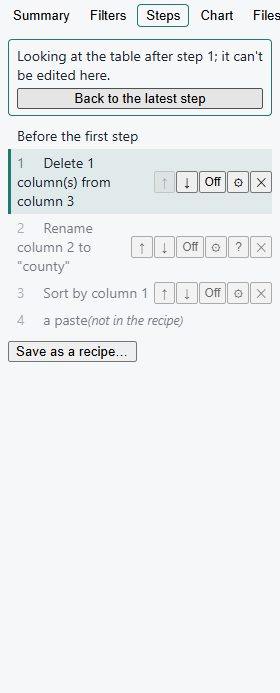
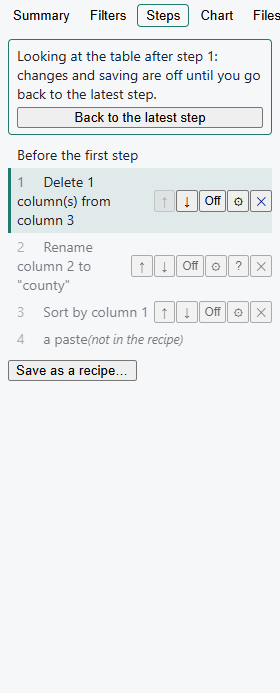
Batch 4 review fixes: peek locks changes and saving, all-or-nothing step changes, ask before replacing results, split name clashes
- Looking back at a step: the backend refuses every change, save and
  autosave until the panel goes back to the latest; the window greys out
  its commands. Going back to the latest keeps changes made by hand.
- Changing a step: if a step fails or the run is cancelled, the table goes
  back and the steps run again as they were (nothing changed).
- Run recipe on files: asks before replacing results of the same name, or
  adds (2) to the new names.
- natendo-cli split --by: names that clean to the same file get (2), (3);
  64 KB buffers per part.
- Right-click: recipe steps and recipes on the tab menu; a menu on each step.
- Answers are not remembered for private files; README says where they are.
- UI tests for the recipe and batch helpers; browser checks for all of it.

Changed region(s): [[0.0286, 0.0606, 0.9714, 0.5455], [0.5429, 0.2424, 0.9714, 0.303]]

diff --git a/crates/cli/src/tools.rs b/crates/cli/src/tools.rs
@@ -828,7 +828,8 @@ mod tests {
         let long = "x".repeat(90);
         std::fs::write(
             &a,
-            format!("k,n
+            format!(
+                "k,n
 a/b,1
 a_b,2
 a/b,3
@@ -836,7 +837,8 @@ a/b,3
 {long}2,5
 end.,6
 end,7
-"),
+"
+            ),
         )
         .unwrap();
         let out = d.join("parts");
@@ -852,7 +854,13 @@ end,7
         assert!(names.contains(&"p a_b (2).csv".to_string()));
         let rows: usize = names
             .iter()
-            .map(|n| std::fs::read_to_string(out.join(n)).unwrap().lines().count() - 1)
+            .map(|n| {
+                std::fs::read_to_string(out.join(n))
+                    .unwrap()
+                    .lines()
+                    .count()
+                    - 1
+            })
             .sum();
         assert_eq!(rows, 7, "every row is in a file");
         let first = std::fs::read_to_string(out.join("p a_b.csv")).unwrap();

diff --git a/src-tauri/src/batch.rs b/src-tauri/src/batch.rs
@@ -123,7 +123,7 @@ impl Batch {
                 }
                 _ => {
                     return Err(bad(
-                        "choose the files, the recipe and the output folder".into(),
+                        "choose the files, the recipe and the output folder".into()
                     ))
                 }
             }
@@ -339,7 +339,8 @@ mod tests {
             "the first results are kept"
         );
         std::fs::write(out.join("a.csv"), "old").unwrap();
-        b.start(&[], false, Some(Existing::Replace), recent).unwrap();
+        b.start(&[], false, Some(Existing::Replace), recent)
+            .unwrap();
         while b.status().running {
             std::thread::sleep(std::time::Duration::from_millis(20));
         }

diff --git a/docs/releases/v0.4.4.md b/docs/releases/v0.4.4.md
@@ -2,9 +2,9 @@
 
 **Repeat your work without thinking.** Recipes become something to trust for the monthly job:
 
-- **Recipe steps panel** (View › Recipe steps, Alt+Shift+R). The steps you take on a tab are listed as you work, like Power Query's applied steps. Click one to see the table as it was after it, then go back to the latest. Turn a step off, move it, take it out or change its settings, and the steps after it run again. If going back would undo a paste or changes typed by hand, it asks first.
+- **Recipe steps panel** (View › Recipe steps, Alt+Shift+R). The steps you take on a tab are listed as you work, like Power Query's applied steps. Click one to see the table as it was after it, then go back to the latest; while you look back, changes and saving are off, so the later steps are never lost. Turn a step off, move it, take it out or change its settings, and the steps after it run again (buttons, or right-click a step). If a step then fails, or you cancel, everything is put back as it was. If going back would undo a paste or changes typed by hand, it asks first.
 - **Recipe questions.** Press ? on a step to have the recipe ask for one of its values each time it runs ("Which county?"), with the last answer filled in. One recipe then serves every county or every election. On the command line: `natendo-cli run monthly.recipe.json in.csv -o out.csv --set county=Knox`.
-- **Run recipe on files** (Tools › Run recipe on files). Pick files or a folder, a recipe and a results folder: every file is run now and written under its own name, with a line for each file (rows in, rows out, or why it was not done) and a total. The files picked are never changed.
+- **Run recipe on files** (Tools › Run recipe on files). Pick files or a folder, a recipe and a results folder: every file is run now and written under its own name, with a line for each file (rows in, rows out, or why it was not done) and a total. The files picked are never changed, and when the results folder already holds files of those names it asks first: replace them, or keep them and add (2) to the new names.
 - **Command-line toolkit.** New `natendo-cli` commands for scripts: `headers`, `select`, `filter`, `sort`, `dedupe`, `stats`, `count`, `sample`, `slice`, `split` and `cat`, each with `--json`. Columns go by title or by number.
 
 Looking back at a step and forward again is undo and redo, so it is as quick as Ctrl+Z, even on a 10-million-row file. On the same file, `natendo-cli filter` keeps a filter's rows in under 2 seconds.
